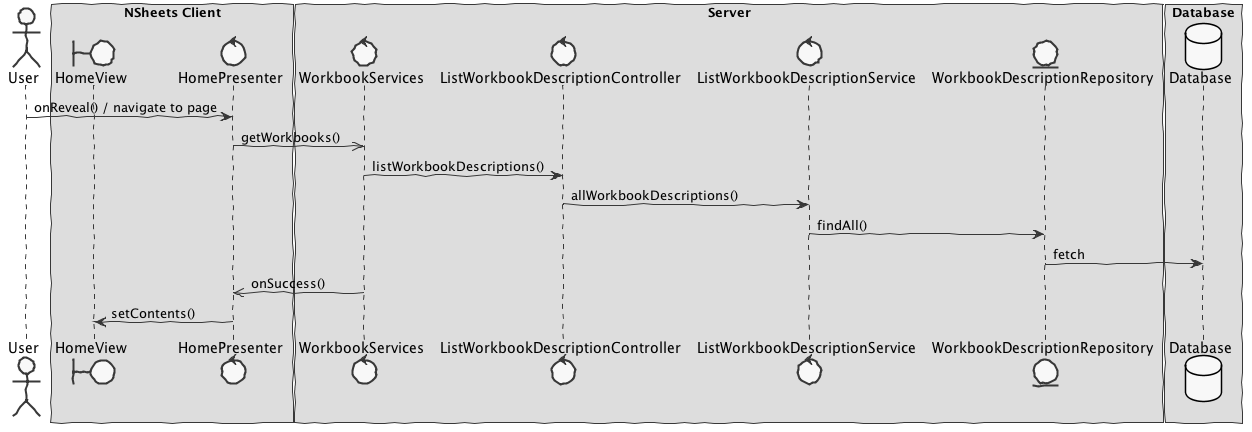
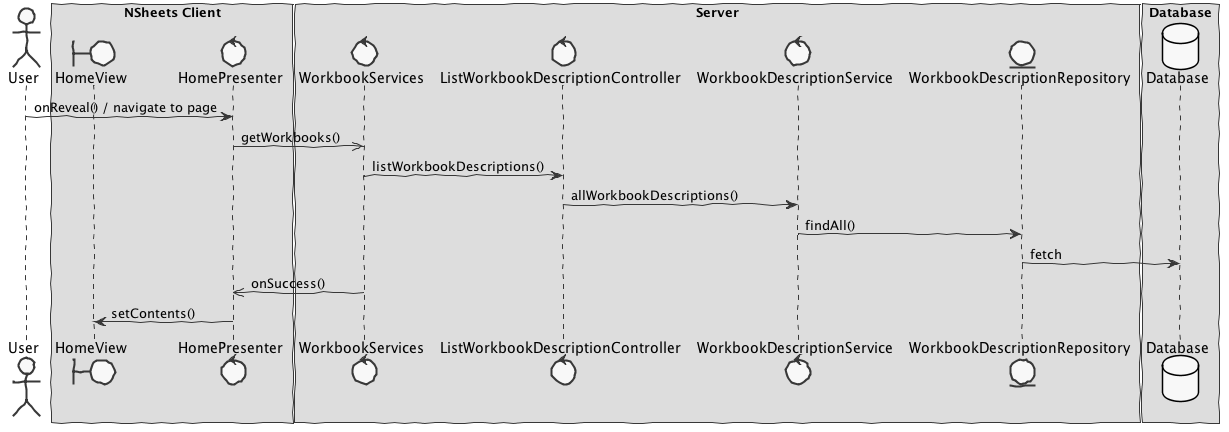
Core00.0 - Test/Design/Implementation:  Added first draft for AddWorkbookDescription.

diff --git a/server/src/test/java/pt/isep/nsheets/server/lapr4/white/s1/core/n4567890/workbooks/application/AddWokbookDescriptionControllerTest.java b/server/src/test/java/pt/isep/nsheets/server/lapr4/white/s1/core/n4567890/workbooks/application/AddWokbookDescriptionControllerTest.java
@@ -1,0 +1,75 @@
+package pt.isep.nsheets.server.lapr4.white.s1.core.n4567890.workbooks.application;
+
+import static org.junit.Assert.assertTrue;
+
+import java.util.Properties;
+
+import org.junit.After;
+import org.junit.AfterClass;
+import org.junit.Before;
+import org.junit.BeforeClass;
+import org.junit.Test;
+
+import pt.isep.nsheets.server.lapr4.white.s1.core.n4567890.workbooks.domain.WorkbookDescription;
+import pt.isep.nsheets.server.lapr4.white.s1.core.n4567890.workbooks.persistence.PersistenceContext;
+import pt.isep.nsheets.server.lapr4.white.s1.core.n4567890.workbooks.persistence.PersistenceSettings;
+import pt.isep.nsheets.shared.services.WorkbookDescriptionDTO;
+
+public class AddWokbookDescriptionControllerTest {
+
+	public AddWokbookDescriptionControllerTest() {
+	}
+
+	@BeforeClass
+	public static void setUpClass() {
+		System.out.println("AddWokbookDescriptionControllerTest");
+
+		// Setup the context to use a memory database for testing
+		Properties props = new Properties();
+		props.put("persistence.repositoryFactory",
+				"pt.isep.nsheets.server.lapr4.white.s1.core.n4567890.workbooks.persistence.jpa.JpaRepositoryFactory");
+		props.put("persistence.persistenceUnit", "lapr4.NSheetsPU");
+
+		// Other JPA properties that one might want to override from the ones in
+		// persistence.xml
+		props.put("javax.persistence.jdbc.url", "jdbc:h2:mem:");
+		props.put("javax.persistence.schema-generation.database.action", "create");
+		// appProps.put("javax.persistence.jdbc.password", "");
+		// appProps.put("javax.persistence.jdbc.driver", "org.h2.Driver");
+		// appProps.put("javax.persistence.jdbc.user", "");
+		// appProps.put("eclipselink.logging.level", "FINE");
+
+		PersistenceSettings extensionSettings = new PersistenceSettings(props);
+
+		PersistenceContext.setSettings(extensionSettings);
+	}
+
+	@AfterClass
+	public static void tearDownClass() {
+	}
+
+	@Before
+	public void setUp() {
+	}
+
+	@After
+	public void tearDown() {
+	}
+
+	// @Ignore
+	@Test
+	public void testNormalBehaviour() throws Exception {
+		System.out.println("testNormalBehaviour");
+		
+		final String name = "Workbook1";
+		final String description = "Description for Workbook1";
+
+		final WorkbookDescription expected = new WorkbookDescription(name, description);
+
+		AddWorkbookDescriptionController ctrl = new AddWorkbookDescriptionController();
+
+		WorkbookDescription result = ctrl.addWorkbookDescription(name, description);
+
+		assertTrue("the added WorkbookDescription does not have the same data as input", expected.sameAs(result));
+	}
+}

diff --git a/server/src/test/java/pt/isep/nsheets/server/lapr4/white/s1/core/n4567890/workbooks/application/ListWokbookDescriptionControllerTest.java b/server/src/test/java/pt/isep/nsheets/server/lapr4/white/s1/core/n4567890/workbooks/application/ListWokbookDescriptionControllerTest.java
@@ -8,14 +8,17 @@ import org.junit.After;
 import org.junit.AfterClass;
 import org.junit.Before;
 import org.junit.BeforeClass;
+import org.junit.FixMethodOrder;
 import org.junit.Ignore;
 import org.junit.Test;
+import org.junit.runners.MethodSorters;
 
 import pt.isep.nsheets.server.lapr4.white.s1.core.n4567890.workbooks.application.ListWorkbookDescriptionController;
 import pt.isep.nsheets.server.lapr4.white.s1.core.n4567890.workbooks.domain.WorkbookDescription;
 import pt.isep.nsheets.server.lapr4.white.s1.core.n4567890.workbooks.persistence.PersistenceContext;
 import pt.isep.nsheets.server.lapr4.white.s1.core.n4567890.workbooks.persistence.PersistenceSettings;
 
+@FixMethodOrder(MethodSorters.NAME_ASCENDING)
 public class ListWokbookDescriptionControllerTest {
 
 	   public ListWokbookDescriptionControllerTest() {
@@ -57,7 +60,8 @@ public class ListWokbookDescriptionControllerTest {
 
 	   // @Ignore
 	   @Test 
-	   public void ensureGetWorkbooksEmpty() {
+	   public void testAensureGetWorkbooksEmpty() {
+		   System.out.println("testAensureGetWorkbooksEmpty");
 		   
 		   ListWorkbookDescriptionController ctrl=new ListWorkbookDescriptionController();
 		   
@@ -65,4 +69,24 @@ public class ListWokbookDescriptionControllerTest {
 		   
 		   assertTrue("the list of WorkbookDescriptions is not empty", !wbs.iterator().hasNext());
 	   }
+	   
+		@Test
+		public void testBtestDatabaseInsertion() throws Exception {
+			System.out.println("testBtestDatabaseInsertion");
+			
+			final String name = "Workbook1";
+			final String description = "Description for Workbook1";
+
+			final WorkbookDescription expected = new WorkbookDescription(name, description);
+
+			AddWorkbookDescriptionController ctrlAdd = new AddWorkbookDescriptionController();
+
+			WorkbookDescription result = ctrlAdd.addWorkbookDescription(name, description);
+			
+			ListWorkbookDescriptionController ctrlList=new ListWorkbookDescriptionController();
+			   
+			Iterable<WorkbookDescription> wbs=ctrlList.listWorkbookDescriptions();
+
+			assertTrue("the added WorkbookDescription is not in the database", wbs.iterator().hasNext());
+		}	   
 }

diff --git a/server/src/main/java/pt/isep/nsheets/server/lapr4/white/s1/core/n4567890/workbooks/application/WorkbookDescriptionService.java b/server/src/main/java/pt/isep/nsheets/server/lapr4/white/s1/core/n4567890/workbooks/application/WorkbookDescriptionService.java
@@ -1,14 +1,26 @@
 package pt.isep.nsheets.server.lapr4.white.s1.core.n4567890.workbooks.application;
 
+import eapli.framework.persistence.DataConcurrencyException;
+import eapli.framework.persistence.DataIntegrityViolationException;
 import pt.isep.nsheets.server.lapr4.white.s1.core.n4567890.workbooks.domain.WorkbookDescription;
 import pt.isep.nsheets.server.lapr4.white.s1.core.n4567890.workbooks.persistence.PersistenceContext;
 import pt.isep.nsheets.server.lapr4.white.s1.core.n4567890.workbooks.persistence.WorkbookDescriptionRepository;
 
-public class ListWorkbookDescriptionService {
+public class WorkbookDescriptionService {
 
     public Iterable<WorkbookDescription> allWorkbookDescriptions() {
 
         final WorkbookDescriptionRepository workbookDescriptionRepository = PersistenceContext.repositories().workbookDescriptions();
         return workbookDescriptionRepository.findAll();
+    }
+
+    public WorkbookDescription addWorkbookDescription(String name, String description) throws DataConcurrencyException, DataIntegrityViolationException {
+
+        final WorkbookDescriptionRepository workbookDescriptionRepository = PersistenceContext.repositories().workbookDescriptions();
+        
+        WorkbookDescription wb=new WorkbookDescription(name, description);
+        workbookDescriptionRepository.save(wb);
+        
+        return wb;
     }
 }

diff --git a/server/src/main/java/pt/isep/nsheets/server/lapr4/white/s1/core/n4567890/workbooks/domain/WorkbookDescription.java b/server/src/main/java/pt/isep/nsheets/server/lapr4/white/s1/core/n4567890/workbooks/domain/WorkbookDescription.java
@@ -34,7 +34,7 @@ public class WorkbookDescription implements AggregateRoot<Long>, Serializable {
 	private String name;
 	private String description;
 
-	public WorkbookDescription(String name, String description)  throws IllegalArgumentException {
+	public WorkbookDescription(String name, String description) throws IllegalArgumentException {
 		if (name == null || description == null) {
 			throw new IllegalArgumentException("name or description must be non-null");
 		}
@@ -67,8 +67,21 @@ public class WorkbookDescription implements AggregateRoot<Long>, Serializable {
 
 	@Override
 	public boolean sameAs(Object other) {
-		// FIXME implement this method
-		return false;
+		if (!(other instanceof WorkbookDescription)) {
+			return false;
+		}
+
+		final WorkbookDescription that = (WorkbookDescription) other;
+		if (this == that) {
+			return true;
+		}
+		if (!this.name.equals(that.name)) {
+			return false;
+		}
+		if (!this.description.equals(that.description)) {
+			return false;
+		}
+		return true;
 	}
 
 	@Override
@@ -80,7 +93,7 @@ public class WorkbookDescription implements AggregateRoot<Long>, Serializable {
 	public Long id() {
 		return this.pk;
 	}
-	
+
 	public WorkbookDescriptionDTO toDTO() {
 		return new WorkbookDescriptionDTO(this.name, this.description);
 	}

diff --git a/server/src/main/java/pt/isep/nsheets/server/lapr4/white/s1/core/n4567890/workbooks/application/AddWorkbookDescriptionController.java b/server/src/main/java/pt/isep/nsheets/server/lapr4/white/s1/core/n4567890/workbooks/application/AddWorkbookDescriptionController.java
@@ -1,0 +1,14 @@
+package pt.isep.nsheets.server.lapr4.white.s1.core.n4567890.workbooks.application;
+
+import eapli.framework.application.Controller;
+import eapli.framework.persistence.DataConcurrencyException;
+import eapli.framework.persistence.DataIntegrityViolationException;
+import pt.isep.nsheets.server.lapr4.white.s1.core.n4567890.workbooks.domain.WorkbookDescription;
+
+public class AddWorkbookDescriptionController implements Controller {
+
+    public WorkbookDescription addWorkbookDescription(String name, String description) throws DataConcurrencyException, DataIntegrityViolationException {
+        
+    	return new WorkbookDescriptionService().addWorkbookDescription(name, description);
+    }
+}

diff --git a/server/src/main/java/pt/isep/nsheets/server/lapr4/white/s1/core/n4567890/workbooks/application/ListWorkbookDescriptionController.java b/server/src/main/java/pt/isep/nsheets/server/lapr4/white/s1/core/n4567890/workbooks/application/ListWorkbookDescriptionController.java
@@ -6,6 +6,6 @@ import pt.isep.nsheets.server.lapr4.white.s1.core.n4567890.workbooks.domain.Work
 public class ListWorkbookDescriptionController implements Controller {
 
     public Iterable<WorkbookDescription> listWorkbookDescriptions() {
-        return new ListWorkbookDescriptionService().allWorkbookDescriptions();
+        return new WorkbookDescriptionService().allWorkbookDescriptions();
     }
 }

diff --git a/server/src/main/java/pt/isep/nsheets/server/services/WorkbooksServiceImpl.java b/server/src/main/java/pt/isep/nsheets/server/services/WorkbooksServiceImpl.java
@@ -22,8 +22,6 @@ public class WorkbooksServiceImpl extends RemoteServiceServlet implements Workbo
 
 	@Override
 	public ArrayList<WorkbookDescriptionDTO> getWorkbooks() {
-		// TODO Auto-generated method stub
-		
 		// Setup the persistence settings
 		PersistenceContext.setSettings(this.getPersistenceSettings());
 		

diff --git a/server/src/test/java/pt/isep/nsheets/server/lapr4/white/s1/core/n4567890/workbooks/domain/WorkbookDescriptionTest.java b/server/src/test/java/pt/isep/nsheets/server/lapr4/white/s1/core/n4567890/workbooks/domain/WorkbookDescriptionTest.java
@@ -35,6 +35,7 @@ public class WorkbookDescriptionTest {
    @Test(expected = IllegalArgumentException.class)
    public void ensureNullIsNotAllowed() {
        System.out.println("ensureNullIsNotAllowed");
+       
        WorkbookDescription instance = new WorkbookDescription(null, null);
    }
 }

diff --git a/docs/white/s4567890/sp1/README.md b/docs/white/s4567890/sp1/README.md
@@ -205,25 +205,11 @@ The main idea for the "workflow" of this feature increment.
 
 *In this section you should present the design solution for the requirements of this sprint.*
 
-Following the guidelines for JPA from EAPLI we envision a scenario like the following for realizing the use cases for this feature increment.
 
-**For US1**
-
-![SD US1](design1.png)
-
-Notes:  
-- The diagram only depicts the less technical details of the scenario;  
-- For clarity reasons details such as the PersistenceContext or the RepositoryFactory are not depicted in this diagram. - **WorkbookServices** realizes the GWT RPC mechanism;
-- **ListWorkbookDescriptionController** is the *use case controller*;
-- **ListWorkbookDescriptionServices** is to group together all the services related to WorkbookDescription. For the moment it really does not seem necessary, adding only a new layer of indirection. *To remove?*
-
-**For US2**
-
-![SD US2](design2.png)
 
 ## 4.1. Tests
 
-*In this section you should describe the design of the tests that cover the requirements of the sprint.*
+*In this section you should describe the design of the tests that, as much as possibe, cover the requirements of the sprint.*
 
 Regarding tests we try to follow an approach inspired by test driven development. However it is not realistic to apply it for all the application (for instance for the UI part). Therefore we focus on the domain classes and also on the services provided by the server.
 
@@ -265,15 +251,49 @@ The proposal is:
 	@RemoteServiceRelativePath("workbooksService")
 	public interface WorkbooksService extends RemoteService {
 		ArrayList<WorkbookDescriptionDTO> getWorkbooks();
-		Long createWorkbookDescription(WorkbookDescriptionDTO);
+		Long addWorkbookDescription(WorkbookDescriptionDTO);
 	}
 		
 Tests:  
-- If a WorkbookDescription is created it should be present in a following invocation of getWorkbooks();		
+- The tests on the controllers require the presence of a database.  
+- We will use the database in memory (H2).  
+- We will have a *controller* from adding new WorkbookDescriptions. This controller will be invoked by the GWT RPC service.
+- We will have a *controller* from listing WorkbookDescriptions. This controller will be invoked by the GWT RPC service.
+
+Verify the normal creation of an WorkbookDescription.  
+
+	@Test
+	public void testNormalBehaviour() throws Exception {
+		final String name = "Workbook1";
+		final String description = "Description for Workbook1";
+		final WorkbookDescription expected = new WorkbookDescription(name, description);
+		AddWorkbookDescriptionController ctrl = new AddWorkbookDescriptionController();
+		WorkbookDescription result = ctrl.addWorkbookDescription(name, description);
+		assertTrue("the added WorkbookDescription does not have the same data as input", expected.sameAs(result));
+	}
+ 
+ If a WorkbookDescription is created it should be present in a following invocation of getWorkbooks();		
 
 ## 4.2. Requirements Realization
 
 *In this section you should present the design realization of the requirements.*
+
+Following the guidelines for JPA from EAPLI we envision a scenario like the following for realizing the use cases for this feature increment.
+
+**For US1**
+
+![SD US1](design1.png)
+
+Notes:  
+- The diagram only depicts the less technical details of the scenario;  
+- For clarity reasons details such as the PersistenceContext or the RepositoryFactory are not depicted in this diagram.   
+- **WorkbookServices** realizes the GWT RPC mechanism;  
+- **ListWorkbookDescriptionController** is the *use case controller*;  
+- **ListWorkbookDescriptionServices** is to group together all the services related to WorkbookDescription. For the moment it really does not seem necessary, adding only a new layer of indirection. *To be removed?*  
+
+**For US2**
+
+![SD US2](design2.png)
 
 ## 4.3. Classes
 
